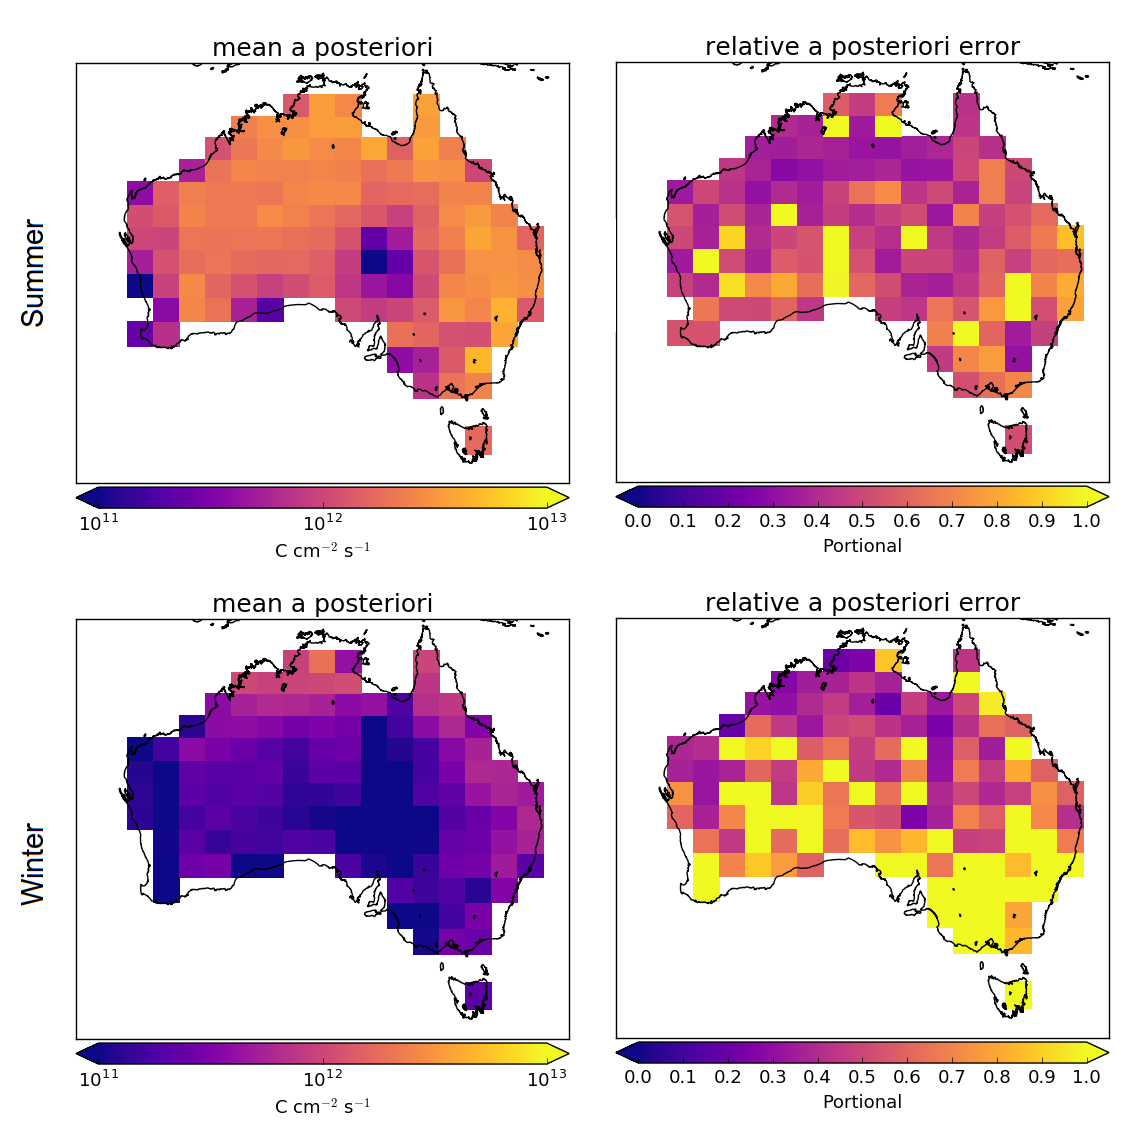
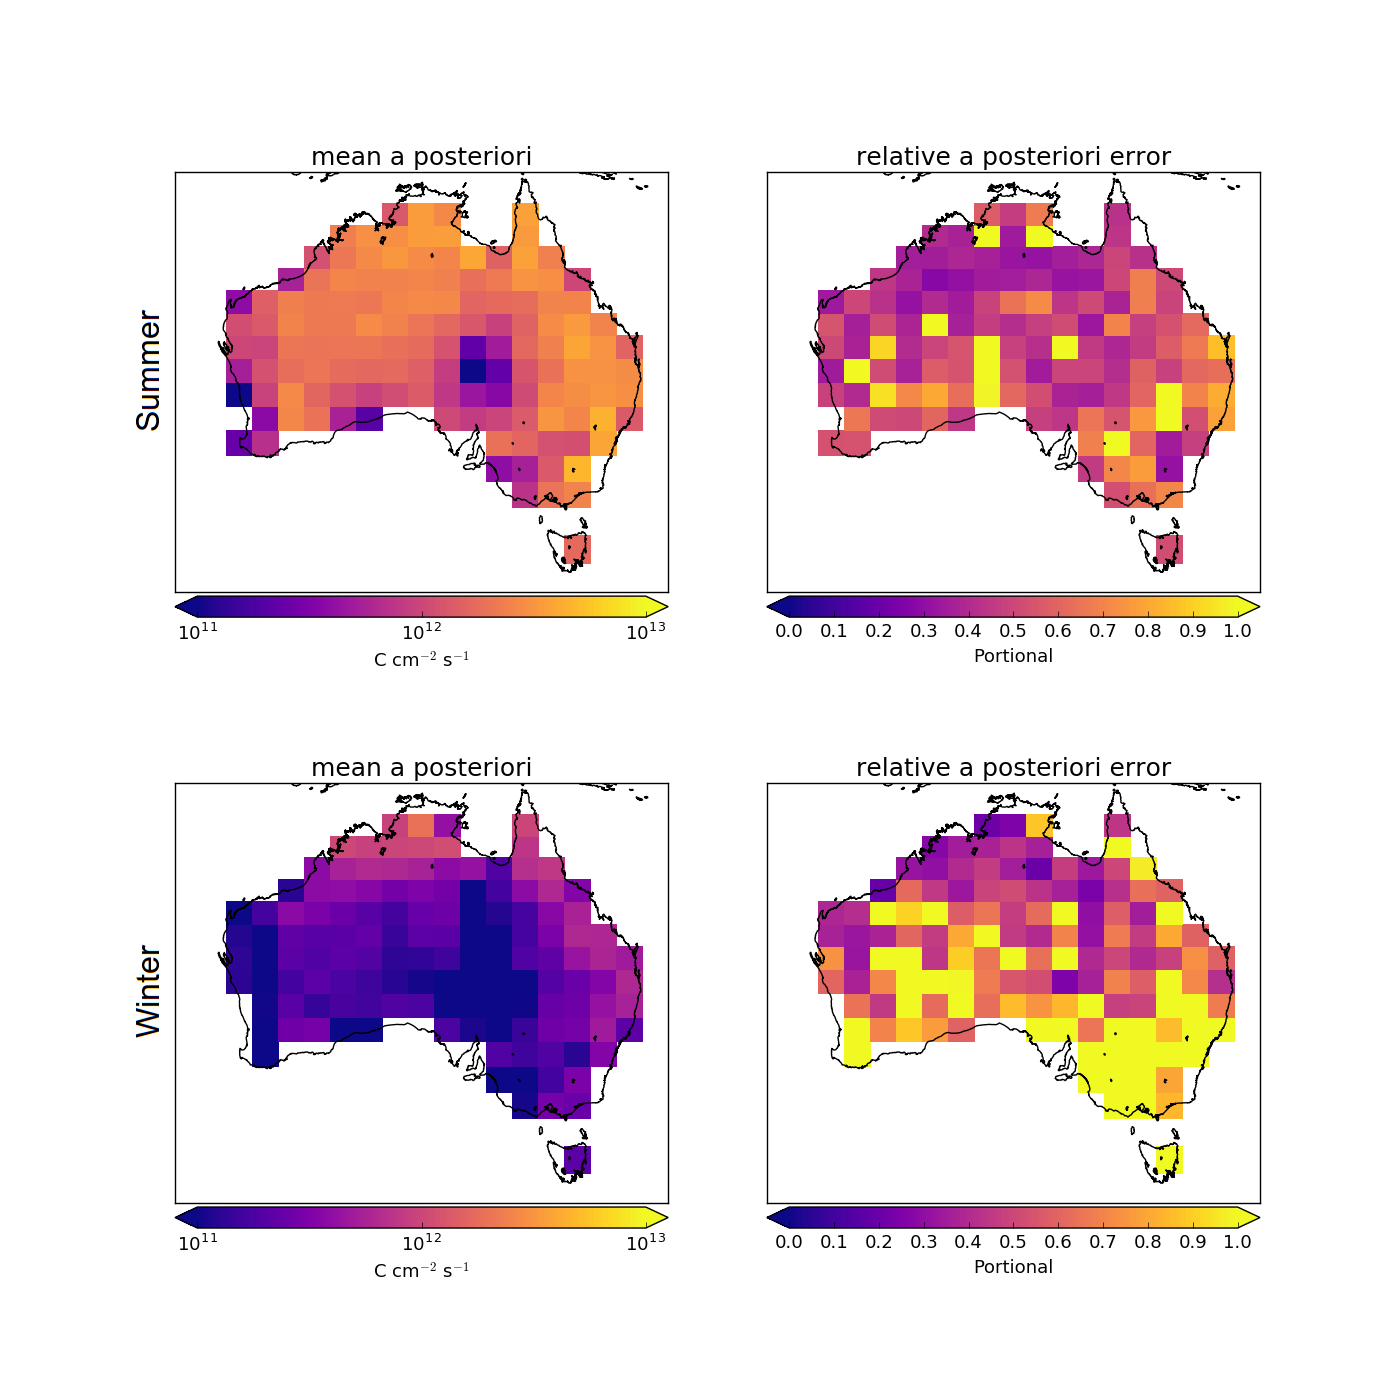
updated figures and uncertainty table, updated conclusions.

diff --git a/localtests.py b/localtests.py
@@ -71,6 +71,105 @@ start1=timeit.default_timer()
 ### DO STUFFS
 ##########
     
+chapter_3_isop.fullpageFigure()
+
+d0=datetime(2005,1,1)
+dN=datetime(2005,1,31)
+
+dkeys=['E_PP_lr', 'pixels_PP_lr', # emissiosn and pixel counts
+       'E_PP_err_lr','E_PPm_err_lr','E_PPm_rerr_lr', # Error in emissions estimate
+       'SC_err_lr', 
+       'VCC_PP_lr', # Omega 
+       'VCC_err_lr','VCC_rerr_lr', # daily OmegaPP error in
+       'BG_PP_rerr',  # monthly low res rerr over Aus
+       'slope_rerr_lr'] # monthly portional error in slope
+
+# READ EMISSIONS AND ERROR
+enew=E_new(d0,dN,dkeys=dkeys)
+dates=enew.dates
+months=util.list_months(d0,dN)
+lats,lons=enew.lats_lr, enew.lons_lr
+pix=enew.pixels_PP_lr
+# GET MONTHLY TOTAL PIXELS
+pixm=util.monthly_averaged(dates,pix,keep_spatial=True)['sum']
+
+for key in dkeys:
+    print(key, getattr(enew,key).shape)
+
+# MASK OCEANS, 
+E = enew.E_PP_lr
+E[enew.oceanmask3d_lr] = np.NaN
+Em      = util.monthly_averaged(dates,E,keep_spatial=True)['mean']
+Eerr   = enew.E_PP_err_lr
+Eerrm  = enew.E_PPm_err_lr
+Ererr  = Eerr/E
+Ererr[~np.isfinite(Ererr)] = np.NaN
+Ererr[np.isclose(E,0.0)] = np.NaN
+Ererrm = Eerrm/Em
+Ererrm[~np.isfinite(Ererrm)] = np.NaN
+Ererrm[np.isclose(Em,0.0)] = np.NaN
+
+Srerrm  = enew.slope_rerr_lr
+
+# monthly VCC error:from per pixel error divided by pixels in the month
+O   = enew.VCC_PP_lr
+Om  = util.monthly_averaged(dates,O,keep_spatial=True)['mean']
+Oerr  = enew.VCC_err_lr * np.sqrt(pix) # error has already been divided by sqrt daily pix
+Oerrm = util.monthly_averaged(dates,Oerr,keep_spatial=True)['mean'] /  np.sqrt(pixm)
+# Same as Enew monthly error:replace error with NaN and set relative error to 100%
+# Enew monthly negatives are replaced with zeros, but not VCCm 
+Orerrm = Oerrm / Om
+negerr = (Om < 0)+(Oerrm<0)
+Orerrm[negerr] = 1.0
+
+
+# 3d monthly oceanmask:
+oceanmask=np.repeat(enew.oceanmask_lr[np.newaxis,:,:], len(months), axis=0)
+print("Checking Oerr")
+# Definitely includes ocean squares
+print(np.nanmean(Orerrm), np.nanmean(Orerrm[oceanmask]))
+Orerrm[oceanmask] = np.NaN
+print("Checking Serr")
+# also
+print(np.nanmean(Srerrm), np.nanmean(Srerrm[oceanmask]))
+Srerrm[oceanmask] = np.NaN
+print("Checking Eerr")
+# does not seem to have ocean squares (good)
+print(np.nanmean(Ererrm), np.nanmean(Ererrm[oceanmask]))
+Ererrm[oceanmask] = np.NaN
+
+BGrerrm = enew.BG_PP_rerr
+BGrerrm[oceanmask]=np.NaN
+BGrerrm[~np.isfinite(BGrerrm)]=np.NaN
+
+
+
+# first lets do A seasonal plot of relative monthly error
+titles = ['relative error in monthly a posteriori', 
+          'relative error in monthly slope',
+          'relative error in monthly $\Omega$',
+          'relative error in monthly $\Omega_{BG}$']
+pnames = ['Ererr_postfix.png',
+            'Srerr_postfix.png',
+            'Orerr_postfix.png',
+            'BGrerr_postfix.png']
+ylims = [ [0,1.5], [0.2, 0.5], [0,1], [0,.03]]
+
+
+for title, pname, ylim, rerr in zip(titles,pnames,ylims,[Ererrm[0],Srerrm[0],Orerrm[0],BGrerrm[0]]):
+    
+    plt.close()
+    plt.figure(figsize=[10,14])
+    bmap,cs,cb = pp.createmap(rerr,lats,lons,aus=True,linear=True,vmin=ylim[0],vmax=ylim[1],
+                 colorbar=False)
+    plt.colorbar(cs)
+    plt.suptitle(title,fontsize=20)
+    plt.savefig(pname)
+    print("SAVED ",pname)
+    plt.close()
+
+
+
 
 ###########
 ### Record and time STUJFFS

diff --git a/chapter_3_isop.py b/chapter_3_isop.py
@@ -2178,14 +2178,14 @@ def pixel_counts_summary():
     print('SAVED ',pname3)
     plt.close()
 
-def relative_error_summary():
+def relative_error_summary(d0=datetime(2005,1,1), dN = datetime(2012,12,31)):
     '''
         Plots: MYA seasonal relative error in E, Omega, and S
         Plots2: summer vs winter relative error in E
         Prints: summer/winter mean and IQR of regionally averaged rerrs
     '''
     
-    d0,dN = datetime(2005,1,1),datetime(2012,12,31)
+    
     dkeys=['E_PP_lr', 'pixels_PP_lr', # emissiosn and pixel counts
            'E_PP_err_lr','E_PPm_err_lr','E_PPm_rerr_lr', # Error in emissions estimate
            'SC_err_lr', 
